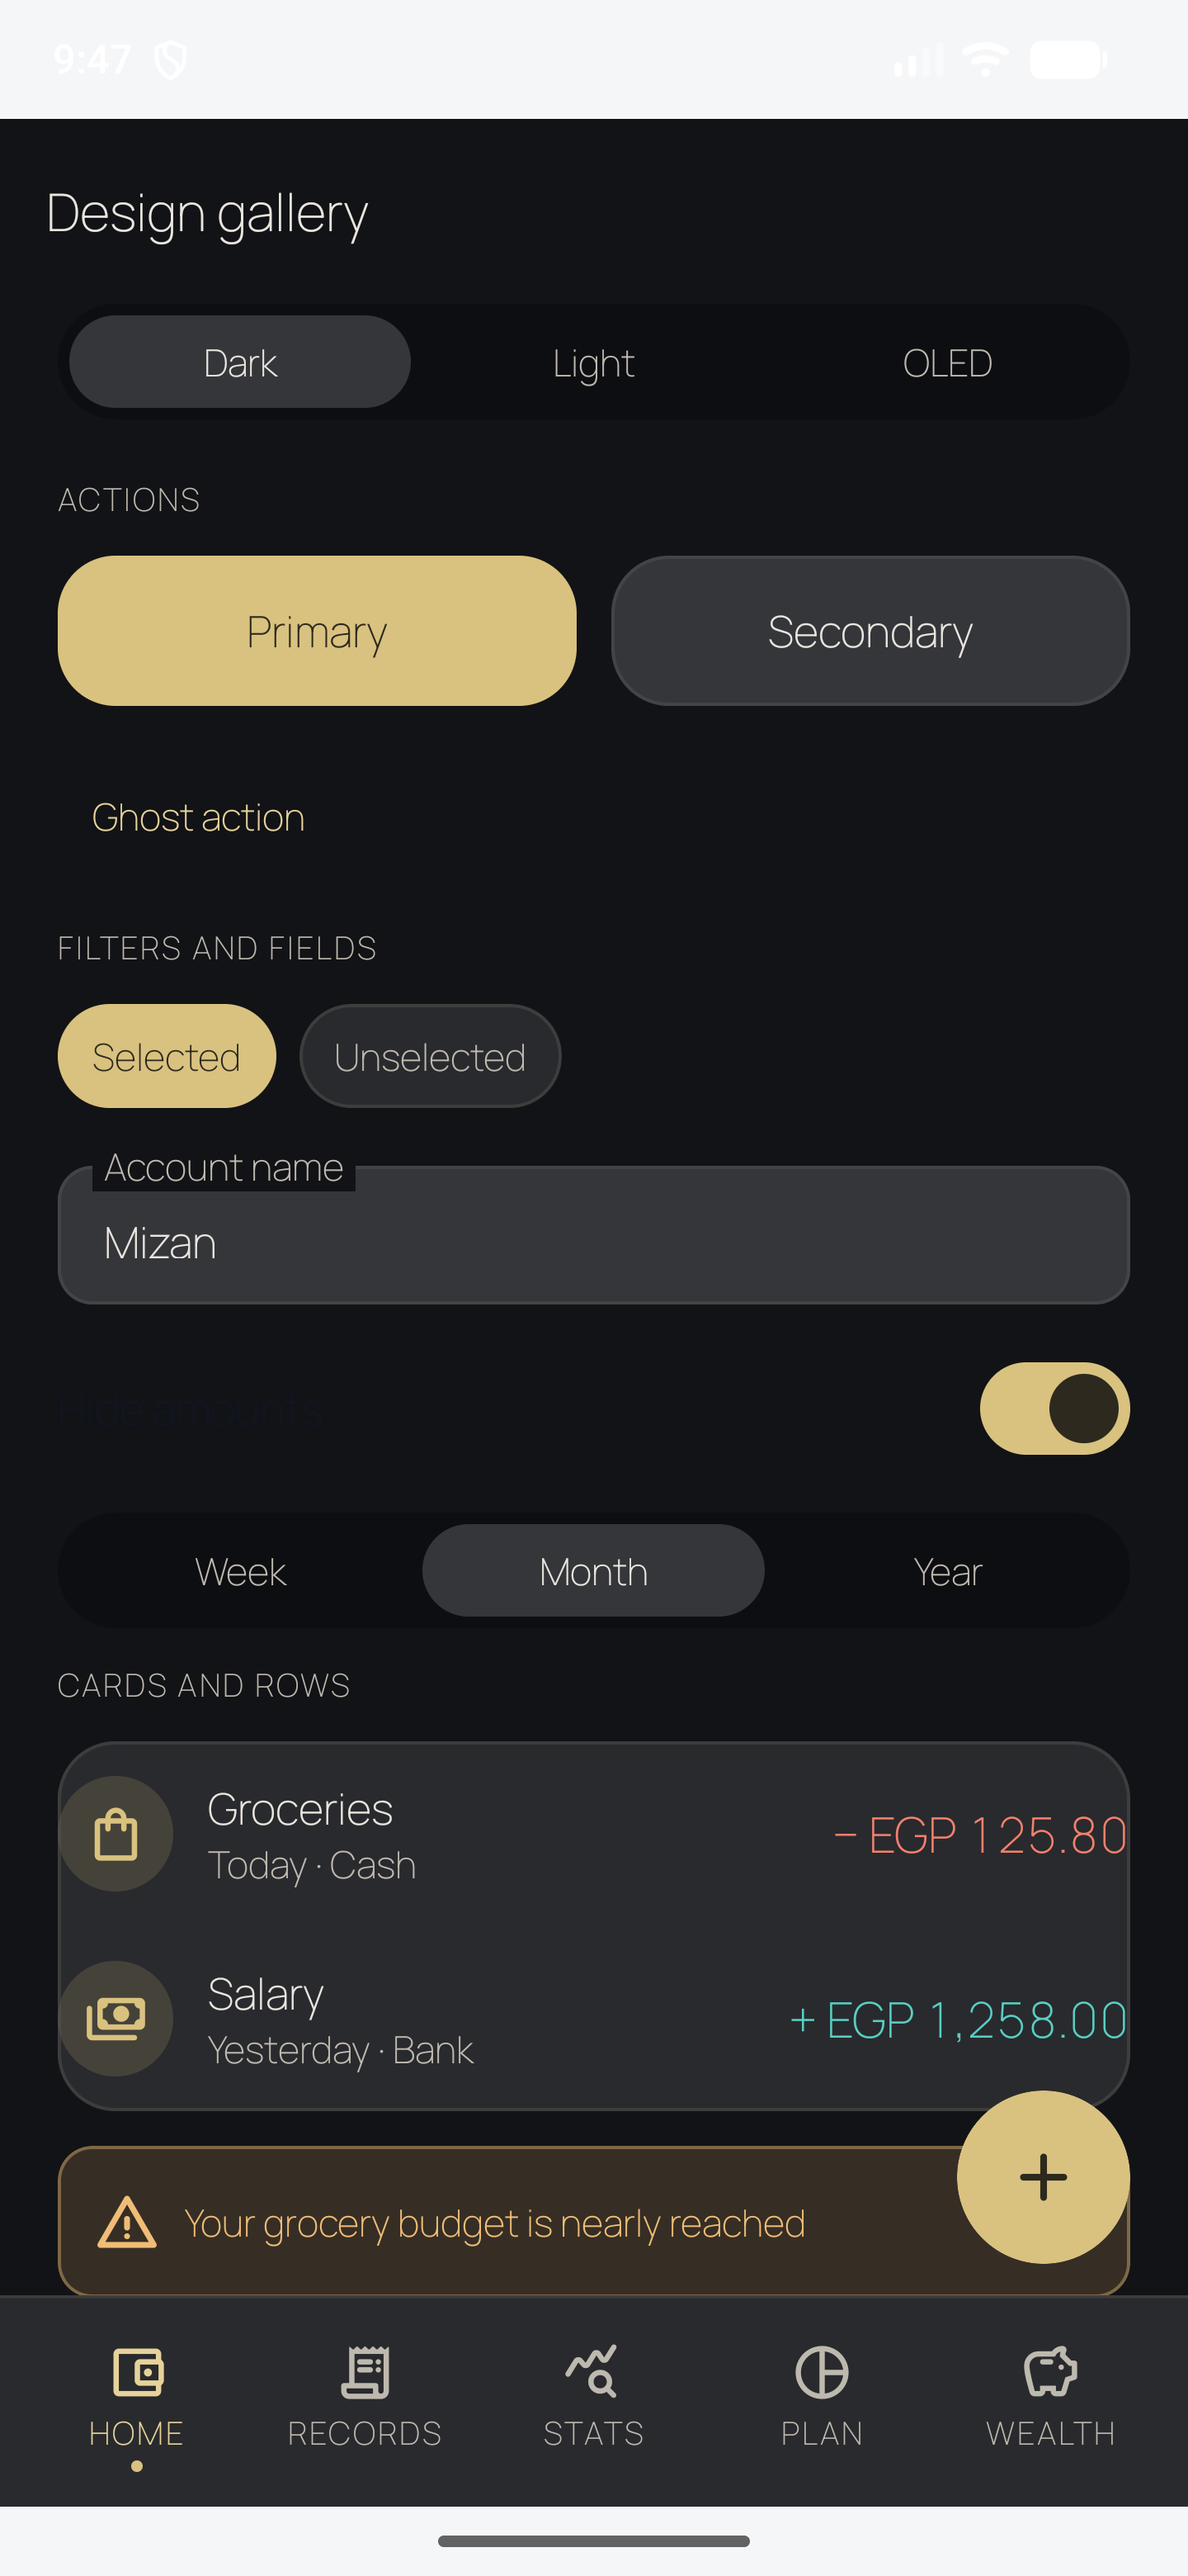
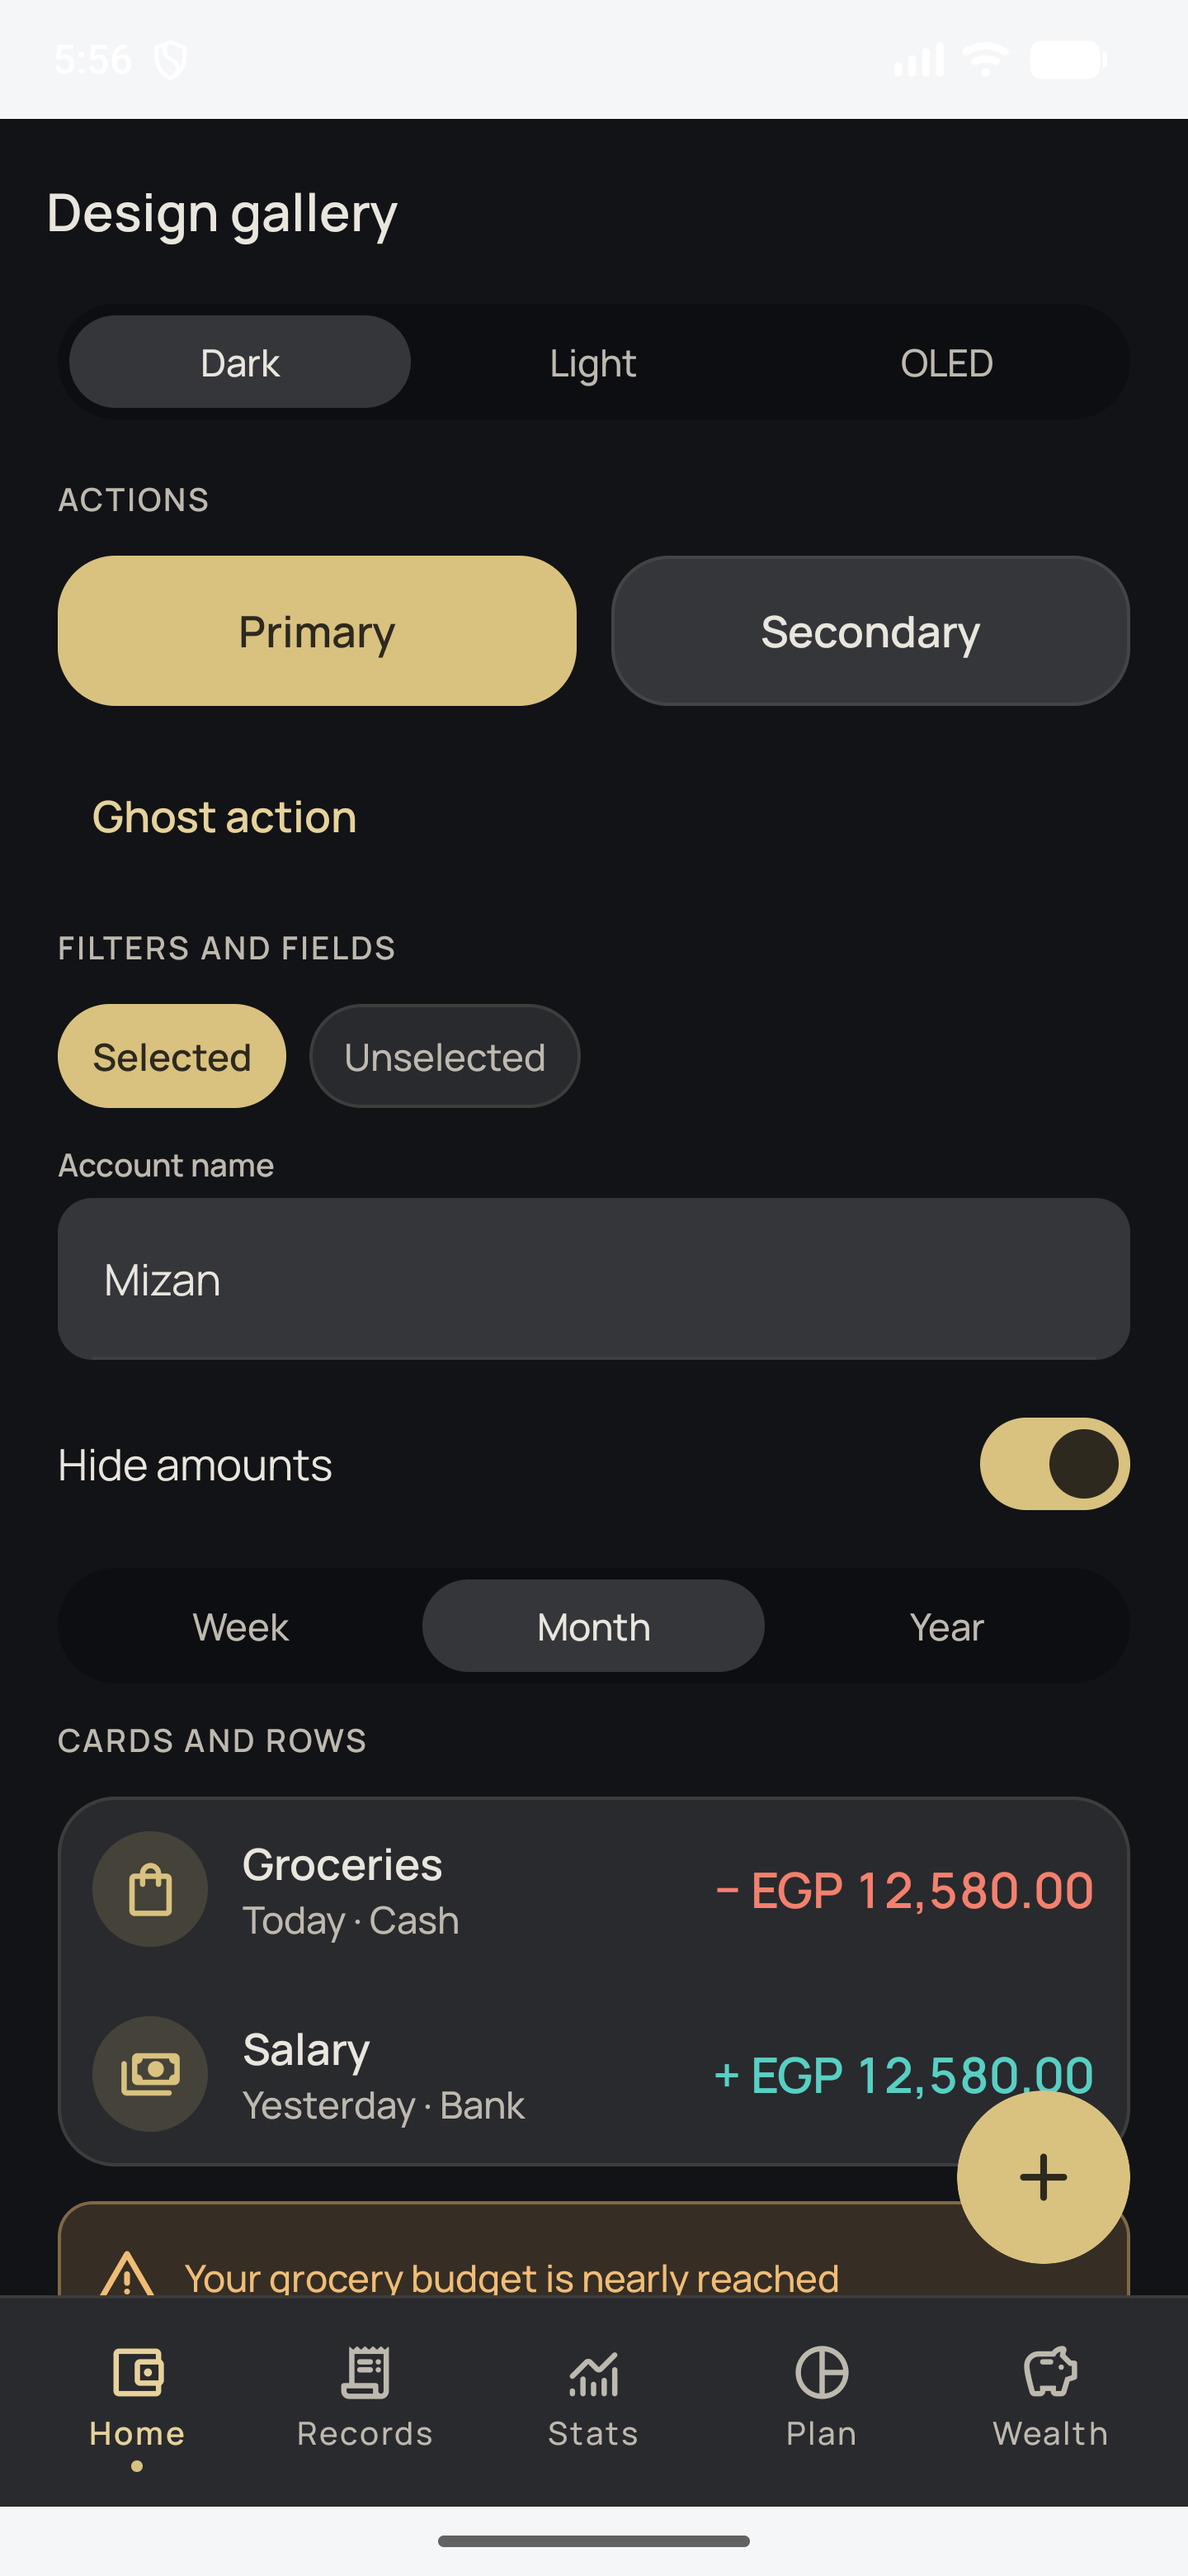
docs(ui): capture verified P1 gallery states

diff --git a/docs/UI/shots/p1/README.md b/docs/UI/shots/p1/README.md
@@ -1,8 +1,11 @@
 # P1 Design Gallery captures
 
-These captures are a documented manual acceptance check from the local `Pixel_7_Pro` Android Studio emulator (1440 × 3120 px, API 37).
+These captures are fresh manual acceptance checks from the local Android Studio `Pixel_7_Pro` emulator (1440 × 3120 px, API 37).
 
-- `gallery-dark.png`, `gallery-light.png`, and `gallery-oled.png` show the three supported token modes at the emulator's default font scale.
-- `gallery-dark-font-scale-130.png` is the same debug-only gallery with Android `font_scale` set to `1.3`; visible labels, input text, list metadata, amounts, buttons, chips, and bottom navigation remain legible without clipping.
+- `gallery-dark.png`, `gallery-light.png`, and `gallery-oled.png` show the gallery at its top in each theme mode. The amount rows visibly show `− EGP 12,580.00` and `+ EGP 12,580.00` without clipping.
+- `gallery-dark-input-focused.png` shows the filled input's champagne focus hairline with the keyboard dismissed.
+- `gallery-dark-charts.png` shows the full square spending donut, centered total and change, chart card, grid, axis labels, and neighboring charts in dark mode.
+
+The gallery logs the exact `Money` passed to both sample rows under the `P1DesignGallery` Logcat tag. The checked values were `Money(minor=1258000, currency=EGP)`.
 
 To repeat: build and install the debug APK, complete the local onboarding fixture, select **Wealth**, long-press the title to open **Dev tools**, select **Open V2 Design Gallery**, choose each theme, and capture with `adb exec-out screencap -p`.

diff --git a/docs/CHANGELOG.md b/docs/CHANGELOG.md
@@ -28,6 +28,8 @@
 
 ## Unreleased
 
+- Refined the debug design gallery: static Manrope weights, fixed-size rounded controls, fitted Money amounts,
+  titled/gridlined chart cards, and a square, centered spending donut; added fresh dark/light/OLED emulator captures.
 - Added instrumented V2 expense-entry coverage for the three-action flow, persisted negative/base
   amount, allowed-overdraft warning, duplicate warning, and edit-through-Trash round trip.
 - Added the V2 record-entry flow for expense, income, and transfer with the calculator, account/currency/category controls, date and More details, templates, saved income splits, transfer exchange/fee handling, duplicate confirmation, and Save & add another.
